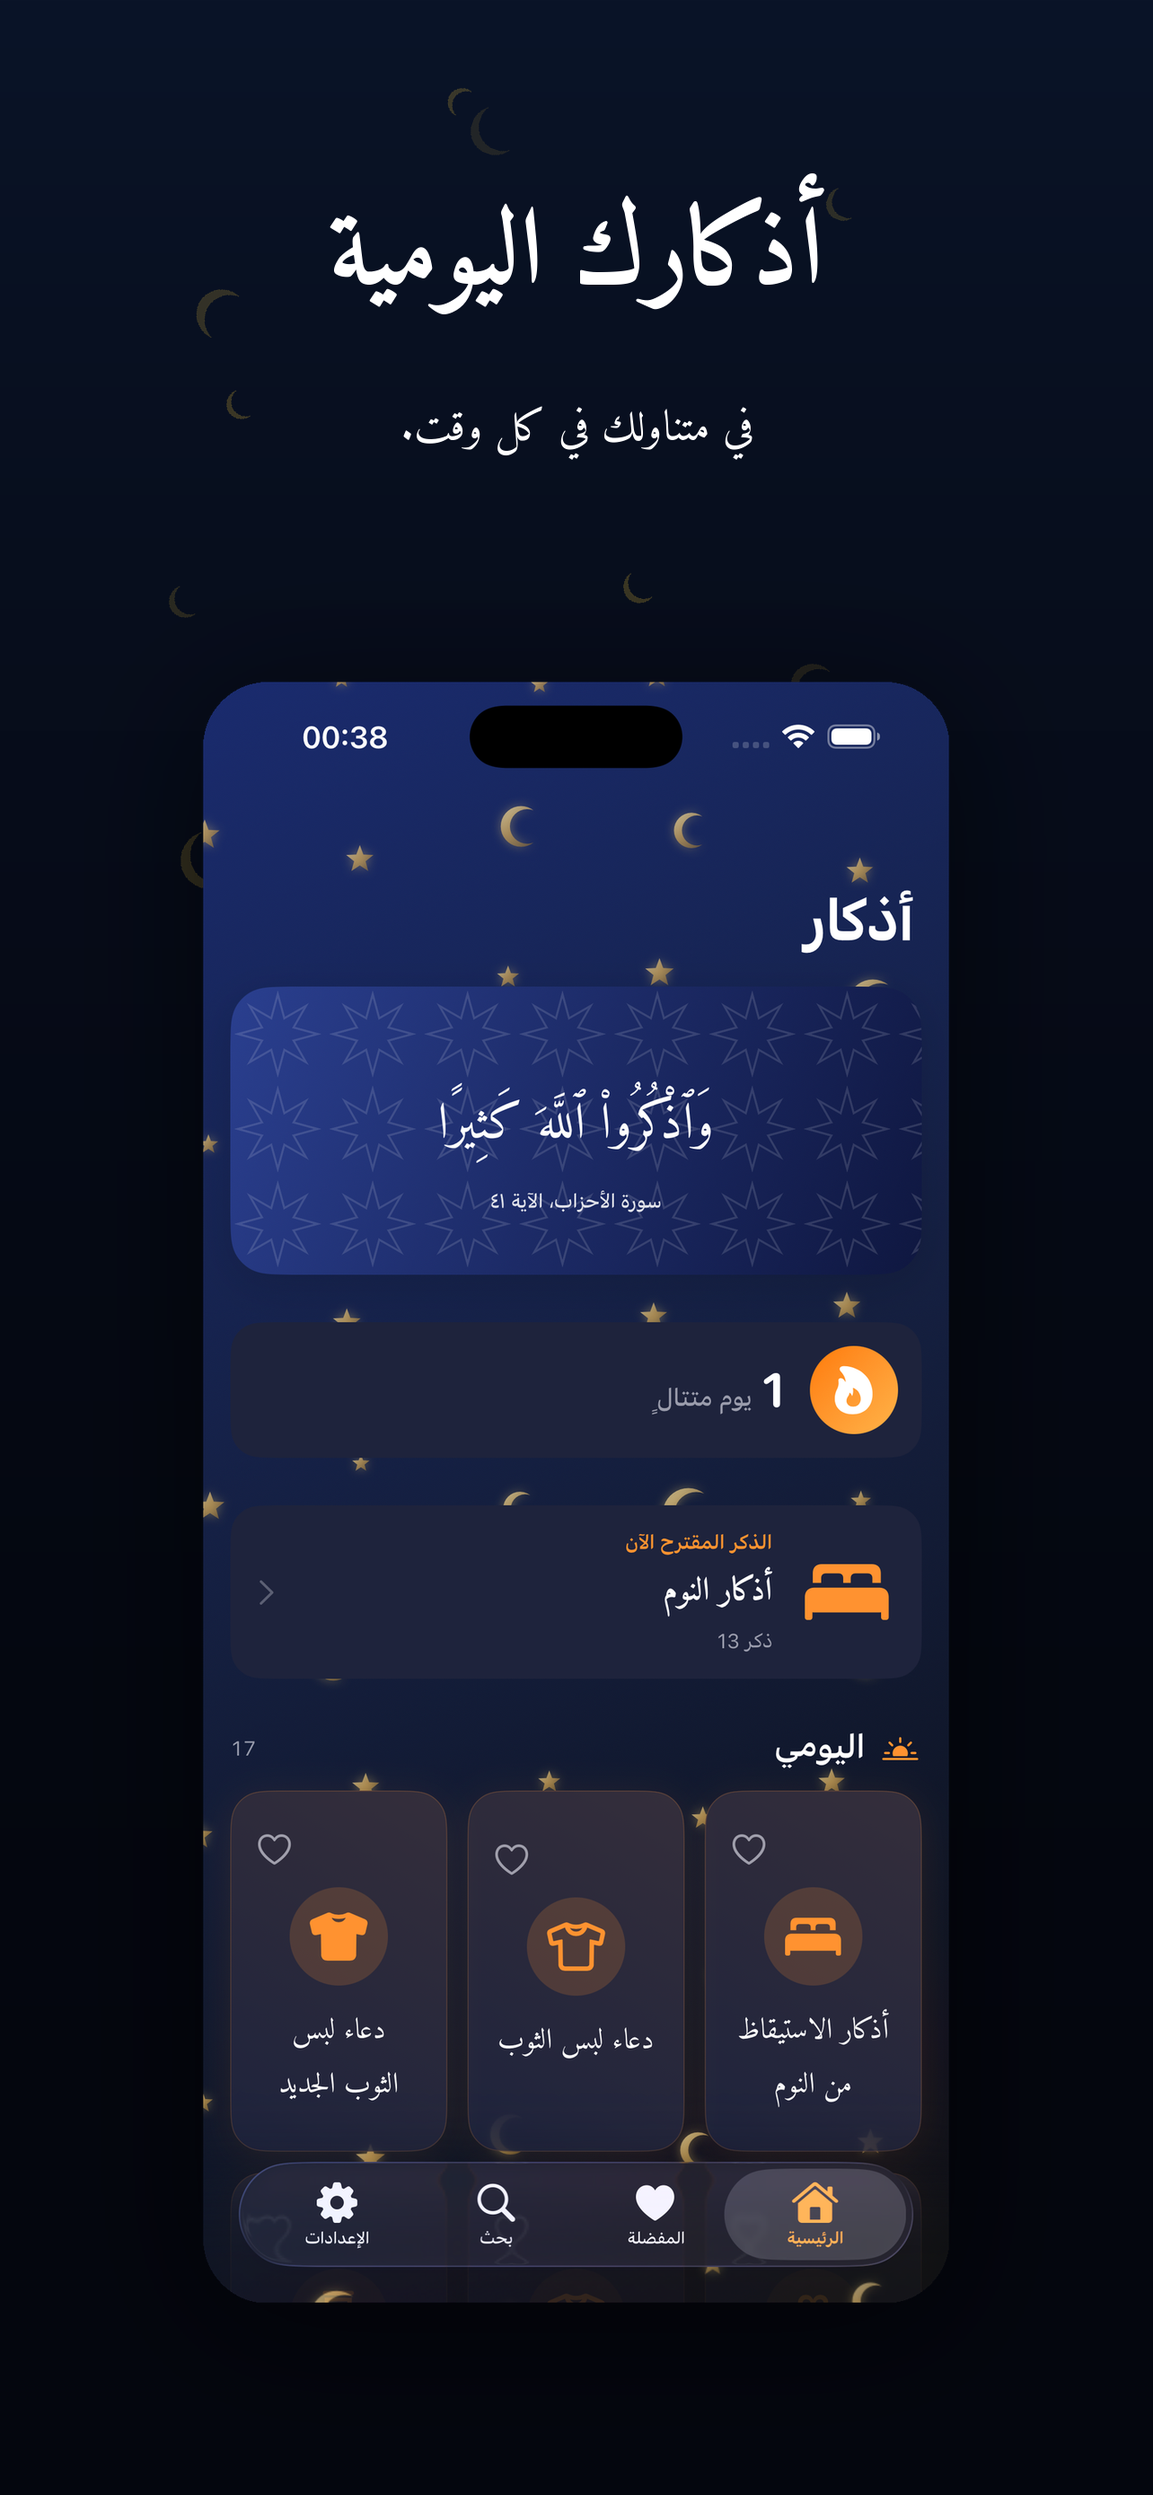
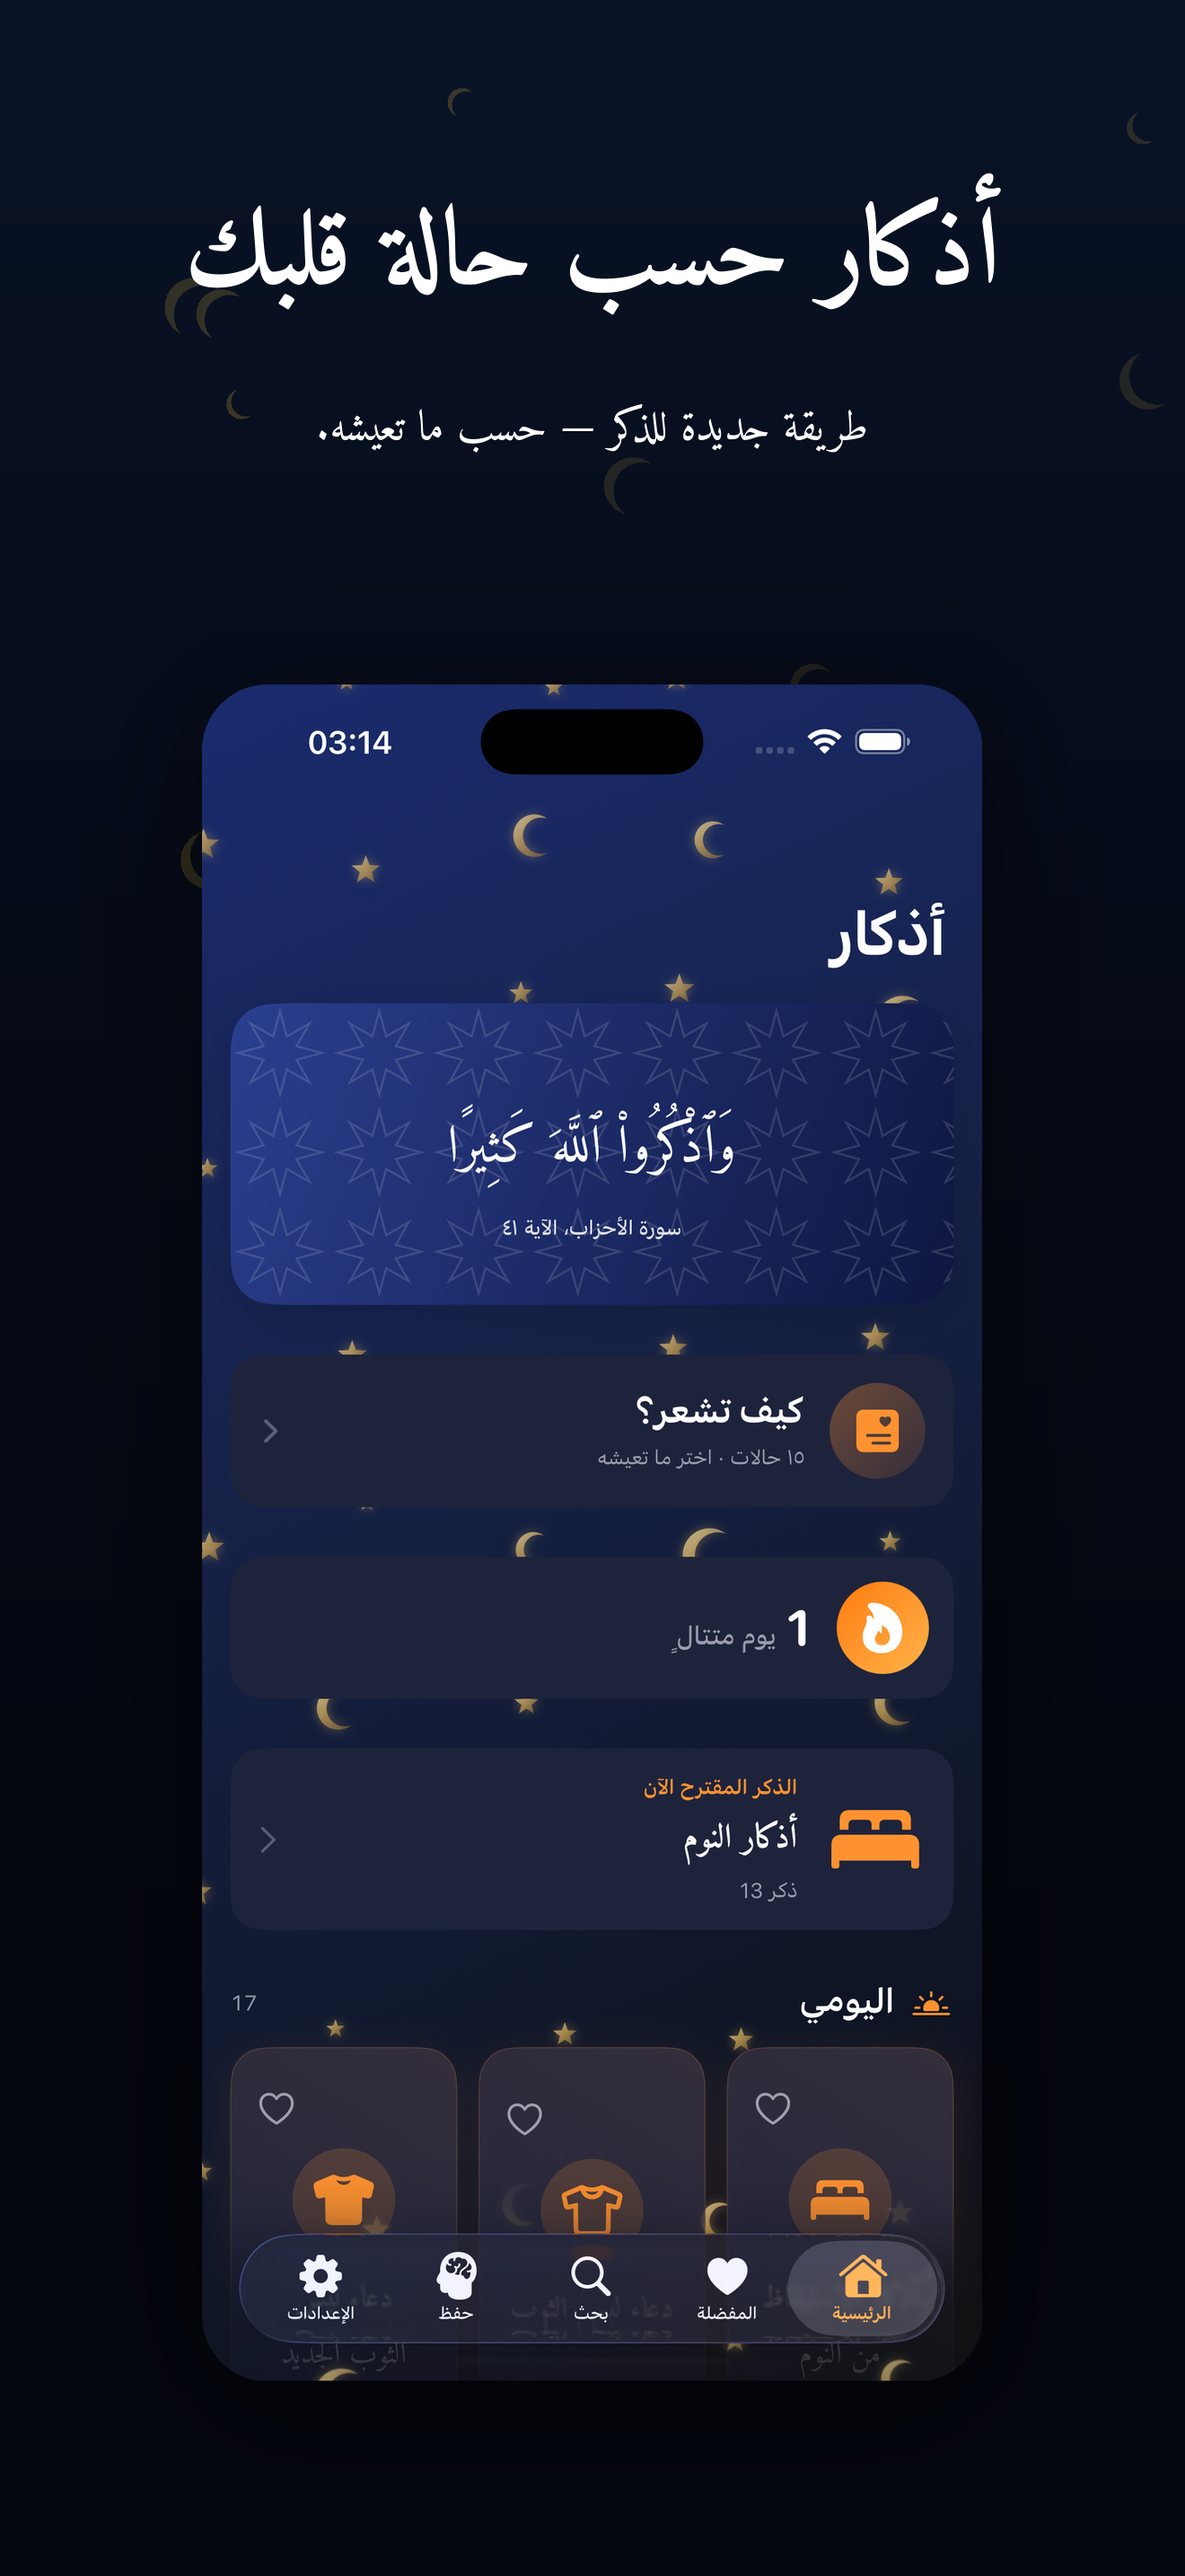
chore(marketing): refresh App Store screenshots for build 2 + new screens
8 screens × 3 langs × 2 devices = 48 final composited images. Order
optimized to lead with the differentiators that address the 4.3(a)
rejection in the first 3 screenshots:

  01  Home (with new "How do you feel?" headline card)
  02  Context picker (2-col grid of 15 emotional/trial contexts)
  03  Context detail (curated dhikr list for the Anxious context)
  04  Dhikr detail (now includes the Memorize button)
  05  Memorize tab (filled state — 3 cards across stages)
  06  Review session (revealed state with 4 SM-2 rating buttons)
  07  Favorites
  08  Settings

iPhone 6.9" (1320×2868) for iPhone 16/17 Pro Max slot, iPad Pro 13"
(2064×2752) for the universal-app requirement. Updates capture_marketing.sh
with the 4 new screen slugs and sleep timings to accommodate the auto-route
chains (sheet → push → reveal).

Also adds marketing/config/store_listing.md with the FR/EN/AR description,
promo text, subtitle, keywords, App Review Information notes, and the
What's New text — all ready to paste into App Store Connect.

diff --git a/marketing/config/store_listing.md b/marketing/config/store_listing.md
@@ -1,0 +1,247 @@
+# App Store Listing — Munajat 1.0 build 2
+
+Tout le texte à coller dans App Store Connect → My Apps → Munajat → Version 1.0 → Localization.
+Trois langues : **French (Primary), English, Arabic**.
+
+---
+
+## 🇫🇷 French
+
+**Subtitle** (max 30 chars)
+```
+Adhkar selon ton état du cœur
+```
+
+**Promotional Text** (max 170 chars — éditable sans resoumission)
+```
+L'app qui s'organise selon ce que tu vis — anxiété, gratitude, deuil, doute… 15 contextes, et un mode mémorisation pour ancrer les adhkar essentiels.
+```
+
+**Description** (max 4000 chars)
+```
+Munajat est la seule app d'adhkar qui s'organise autour de ce que tu vis — pas seulement selon l'heure de la journée.
+
+——
+
+QUAND TU TE SENS…
+
+Anxieux, reconnaissant, triste, en colère, plein d'espoir, malade, endeuillé, dans une dette qui pèse, avant un moment important, en conflit, en insomnie, dans le doute… Munajat te propose les invocations du Coran et de la Sunna qui correspondent à ce moment précis de ta vie. 15 contextes, soigneusement curés à partir du Hisn al-Muslim.
+
+——
+
+MÉMORISE CE QUI COMPTE
+
+Active le mode Mémoriser sur n'importe quel dhikr. L'application le programme dans une boucle de répétition espacée (algorithme SM-2 simplifié) — cinq minutes par jour, et les essentiels s'ancrent. Quatre niveaux d'auto-évaluation après chaque révélation : Encore, Difficile, Bien, Facile.
+
+——
+
+TOUT CE QU'ON ATTEND D'UNE APP D'ADHKAR
+
+• 294 invocations du Coran et de la Sunna, du domaine public
+• Audio pour chaque dhikr
+• Compteur tactile, avec auto-reset chaque jour
+• Streak quotidien pour soutenir la pratique
+• Partage de n'importe quel dhikr sous forme de carte illustrée
+• Widget d'écran d'accueil avec le dhikr du moment
+• Trilingue : arabe, français, anglais — avec layout droite-à-gauche en arabe
+• Typographie Amiri et Amiri Quran pour les versets coraniques
+• Mode sombre uniquement, pour ne pas fatiguer la vue le matin et le soir
+• 100% local, aucun pistage, aucune publicité
+
+——
+
+CONÇU AVEC SOIN
+
+Pas de pop-up, pas de monétisation cachée, pas de compte à créer. Une app que je voulais pour ma propre pratique quotidienne, et que je partage maintenant.
+
+— Achraf
+```
+
+**Keywords** (max 100 chars, séparés par des virgules sans espace après)
+```
+adhkar,dhikr,dua,islam,coran,hisn,musulman,priere,muslim,rappel,memorisation,hifz
+```
+
+---
+
+## 🇬🇧 English
+
+**Subtitle** (max 30 chars)
+```
+Adhkar for what you live
+```
+
+**Promotional Text** (max 170 chars)
+```
+The app that organizes itself around what you live — anxiety, gratitude, grief, doubt… 15 contexts, plus memorization mode to anchor essential adhkar.
+```
+
+**Description** (max 4000 chars)
+```
+Munajat is the only adhkar app that organizes itself around what you're living — not just the time of day.
+
+——
+
+WHEN YOU FEEL…
+
+Anxious, grateful, sad, angry, hopeful, sick, mourning, burdened by debt, before an important moment, in conflict, insomniac, doubting… Munajat surfaces the Quranic and prophetic invocations that fit this specific moment of your life. 15 contexts, carefully curated from Hisn al-Muslim.
+
+——
+
+MEMORIZE WHAT MATTERS
+
+Tap Memorize on any dhikr. The app schedules it in a spaced-repetition loop (simplified SM-2 algorithm) — five minutes a day, and the essentials anchor. Four self-evaluation levels after each reveal: Again, Hard, Good, Easy.
+
+——
+
+EVERYTHING YOU EXPECT FROM AN ADHKAR APP
+
+• 294 invocations from the Quran and Sunnah, public domain
+• Audio for every dhikr
+• Tap-to-count, with auto-reset every day
+• Daily streak to support consistent practice
+• Share any dhikr as a beautifully rendered card
+• Home Screen widget with the current dhikr of the moment
+• Trilingual: Arabic, French, English — with right-to-left layout in Arabic
+• Amiri and Amiri Quran typography for Quranic verses
+• Dark mode only, easy on the eyes morning and evening
+• 100% on-device, no tracking, no ads
+
+——
+
+MADE WITH CARE
+
+No pop-ups, no hidden monetization, no account to create. An app I wanted for my own daily practice, and I'm now sharing.
+
+— Achraf
+```
+
+**Keywords** (max 100 chars)
+```
+adhkar,dhikr,dua,islam,quran,hisn,muslim,prayer,remembrance,memorize,hifz,islamic
+```
+
+---
+
+## 🇸🇦 Arabic (العربية)
+
+**Subtitle** (max 30 chars)
+```
+أذكار حسب حالة قلبك
+```
+
+**Promotional Text** (max 170 chars)
+```
+تطبيق ينتظم حسب ما تعيش — قلق، شكر، حزن، شك… ١٥ حالة، ووضع حفظ لترسيخ الأذكار الأساسية.
+```
+
+**Description** (max 4000 chars)
+```
+مناجاة هو التطبيق الوحيد الذي ينتظم حسب ما تعيش، لا حسب الساعة فقط.
+
+——
+
+حين تشعر بـ…
+
+قلق، شكر، حزن، غضب، رجاء، مرض، فقد، دَين يثقلك، قبل أمر مهم، خلاف، أرق، شك… يقدّم لك مناجاة الأدعية القرآنية والنبوية المناسبة لهذه اللحظة بالذات من حياتك. ١٥ حالة مختارة بعناية من حصن المسلم.
+
+——
+
+احفظ ما يهمك
+
+اضغط "احفظ" على أي ذكر. يجدوله التطبيق ضمن دورة مراجعة متباعدة (خوارزمية SM-2 مبسّطة) — خمس دقائق يومياً وتترسّخ الأذكار الأساسية. أربعة مستويات تقييم بعد كل كشف: أعد، صعب، جيد، سهل.
+
+——
+
+كل ما تنتظره من تطبيق أذكار
+
+• ٢٩٤ دعاء من القرآن والسنة، من المجال العام
+• تلاوة لكل ذكر
+• عدّاد لمسي، يُعاد ضبطه يومياً تلقائياً
+• سلسلة يومية لتعزيز الانتظام
+• مشاركة أي ذكر على هيئة بطاقة جميلة
+• ودجت للشاشة الرئيسية يعرض ذكر اللحظة
+• ثلاثي اللغة: عربي، فرنسي، إنجليزي — مع تخطيط من اليمين إلى اليسار
+• خط أميري وأميري قرآن للآيات القرآنية
+• وضع داكن فقط، مريح للعين صباحاً ومساءً
+• ١٠٠٪ محلي، بدون تتبع، بدون إعلانات
+
+——
+
+صُنع بعناية
+
+بدون نوافذ منبثقة، بدون اشتراك خفي، بدون حساب. تطبيق أردته لممارستي اليومية، وأشاركه الآن.
+
+— أشرف
+```
+
+**Keywords** (max 100 chars)
+```
+أذكار,دعاء,حصن المسلم,قرآن,إسلام,مسلم,صلاة,ذكر,حفظ
+```
+
+---
+
+## 📨 App Review Information — Notes
+
+À coller dans **App Store Connect → Version 1.0 → App Review Information → Notes** au moment de la resoumission. Texte en anglais.
+
+```
+Hi App Review,
+
+This is Munajat 1.0 build 2 — the same app you reviewed under submission 8f80130c-8c2e-485b-9357-e410f074830a, with significant structural changes to address the 4.3(a) feedback.
+
+THREE FEATURES THAT NO OTHER ADHKAR APP IN THE STORE HAS:
+
+1. Context-driven home — opens with "How do you feel?" leading to a picker of 15 life-state contexts (8 emotions + 7 life trials). Each context surfaces 3-7 curated Quranic and prophetic invocations relevant to that specific emotional or situational state. See screenshots 2 and 3.
+
+2. Built-in spaced-repetition memorization (dedicated 5th tab "Memorize"). Tap "Memorize" on any dhikr to add it to a personal Hifz list. The app schedules reviews using a simplified SM-2 algorithm with 4-button self-evaluation (Again / Hard / Good / Easy). See screenshots 4 and 5.
+
+3. 69 curated dhikr-context associations covering anxiety, gratitude, grief, anger, fear, sickness, debt, mourning, and more — none of which exist in template-based adhkar apps.
+
+The underlying text (Hisn al-Muslim collection) is in the public domain and necessarily shared across the category, the same way Bible apps share scripture. The code is written entirely from scratch in SwiftUI — no template, no third-party codebase.
+
+Happy to provide a 60-second video walkthrough if helpful.
+
+Thanks,
+Achraf
+```
+
+---
+
+## 🆕 What's New in This Version
+
+À coller dans **Version 1.0 → What's New in This Version** (max 4000 chars). Pour la build 2, c'est en réalité la **première version publique** donc on peut juste lister l'app entière. Mais si Apple veut spécifiquement les changements depuis build 1 :
+
+### FR
+```
+Première version de Munajat.
+
+• Mode "Comment te sens-tu ?" — 15 contextes de vie qui te suggèrent les dhikr adaptés
+• Mode Mémorisation — répétition espacée pour ancrer les adhkar essentiels
+• 294 invocations du Coran et de la Sunna, en arabe/français/anglais
+• Audio, compteur tactile, streak quotidien
+• Widget d'écran d'accueil, partage en image, mode sombre, 100% local
+```
+
+### EN
+```
+Initial release of Munajat.
+
+• "How do you feel?" mode — 15 life contexts surfacing relevant dhikr
+• Memorization mode — spaced repetition to anchor essential adhkar
+• 294 invocations from Quran and Sunnah in Arabic / French / English
+• Audio, tap-to-count, daily streak
+• Home Screen widget, image sharing, dark mode, 100% on-device
+```
+
+### AR
+```
+الإصدار الأول من مناجاة.
+
+• وضع "كيف تشعر؟" — ١٥ حالة حياتية تقترح الأذكار المناسبة
+• وضع الحفظ — مراجعة متباعدة لترسيخ الأذكار الأساسية
+• ٢٩٤ دعاء من القرآن والسنة باللغات العربية والفرنسية والإنجليزية
+• تلاوة، عدّاد لمسي، سلسلة يومية
+• ودجت الشاشة الرئيسية، مشاركة بصرية، وضع داكن، ١٠٠٪ محلي
+```
